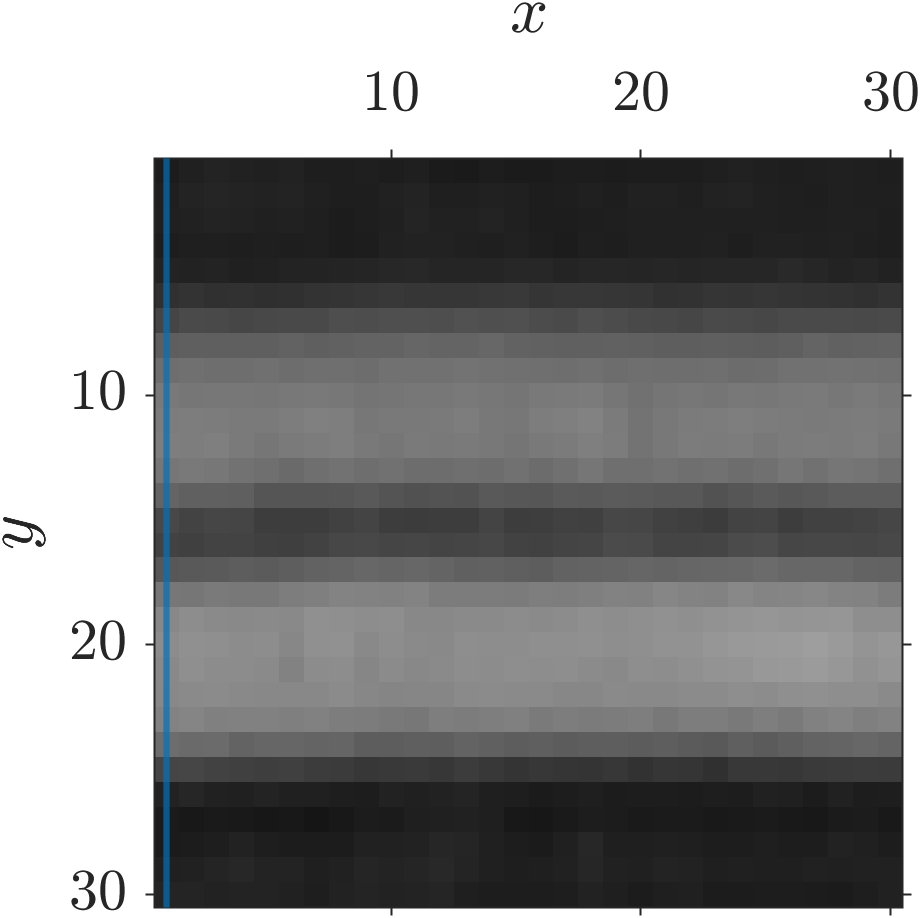
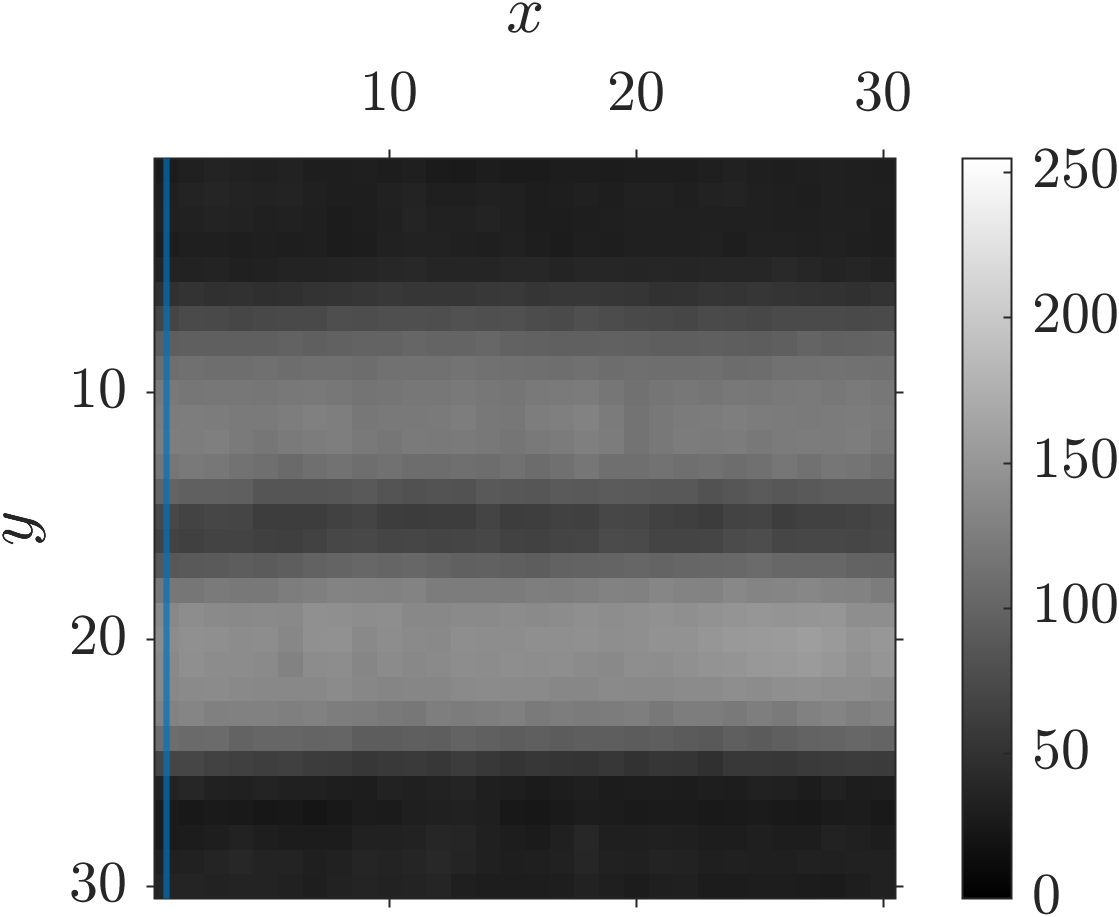
darknessProfile.mのcolorbarとscatterのedgeColorを微修正
darknessProfile_columnにカラーバー(east、軸ラベル無し)を追加し、axis image
を維持するため横幅を+2cmする。darknessProfile_profileの黄色い丸(end)には
edgeColor="k"を付けて視認性を上げる。

diff --git a/scripts/slides/202609asj/darknessProfile.m b/scripts/slides/202609asj/darknessProfile.m
@@ -38,6 +38,7 @@ LINE_COLOR = [0 0.4470 0.7410];
 
 % 図のサイズ[cm]とフォントサイズ[pt]。大きさは今回に限り3図とも8cm×8cmにする
 FIG_W = 8; FIG_H = 8;
+FIG_W_COLUMN = FIG_W + 2; % 1はカラーバーを追加する分、横幅を+2cmする
 FONT_TICK = 14; FONT_LABEL = 16;
 
 %% 画像を読み込み、各列の溝底区間を求める
@@ -76,8 +77,11 @@ allsIdxBtm(:,2) = (allsIdxBtm(:,2) - 1)/origD.scaleFactor.row + 1;
 alleIdxBtm(:,2) = (alleIdxBtm(:,2) - 1)/origD.scaleFactor.row + 1;
 
 %% 描画1: 切り出した画像 + x=X_Cの位置を示す縦線（2の線色と揃える）
-fig = createFigure([0 0 FIG_W FIG_H]);
-ax = axes(fig);
+% カラーバーを追加するのでtiledlayout+Padding="tight"で余白を確保する
+% ([[colorbar-figure-caution]]参照。axis imageのため横幅をFIG_W_COLUMNに広げる)
+fig = createFigure([0 0 FIG_W_COLUMN FIG_H]);
+t = tiledlayout(fig,1,1,"Padding","tight");
+ax = nexttile(t);
 
 imagesc(ax,imgData.img);
 colormap(ax,gray); clim(ax,[0 255]);
@@ -96,8 +100,12 @@ ax.LabelFontSizeMultiplier = 1;
 ax.XLabel.FontSize = FONT_LABEL;
 ax.YLabel.FontSize = FONT_LABEL;
 
-tightenAxes(ax);
-saveSlideFigure(fig,saveDir,"darknessProfile_column",FIG_W,FIG_H);
+% カラーバー: 軸ラベルは付けない（画素値0-255の参照用）
+c = colorbar(ax);
+c.Layout.Tile = "east";
+c.FontSize = FONT_TICK;
+
+saveSlideFigure(fig,saveDir,"darknessProfile_column",FIG_W_COLUMN,FIG_H);
 
 %% 描画2(fig2-1相当): x=X_Cでの暗度断面。今回のみカラーバーを表示する
 % カラーバーがあるのでtiledlayout+Padding="tight"で余白を確保する
@@ -111,7 +119,7 @@ p.Color = LINE_COLOR; % 1の縦線と色を揃える
 hold(ax,"on");
 yline(ax,D_TH,"-","LineWidth",0.5,"Color","k");
 scatter(ax,sY,origD.dMat(sIdxBtm_C,X_C),MARKER_SIZE,"red","filled","o");
-scatter(ax,eY,origD.dMat(eIdxBtm_C,X_C),MARKER_SIZE,"yellow","filled","o");
+scatter(ax,eY,origD.dMat(eIdxBtm_C,X_C),MARKER_SIZE,"yellow","filled","o","MarkerEdgeColor","k");
 hold(ax,"off");
 
 xlim(ax,Y_VIEW);
